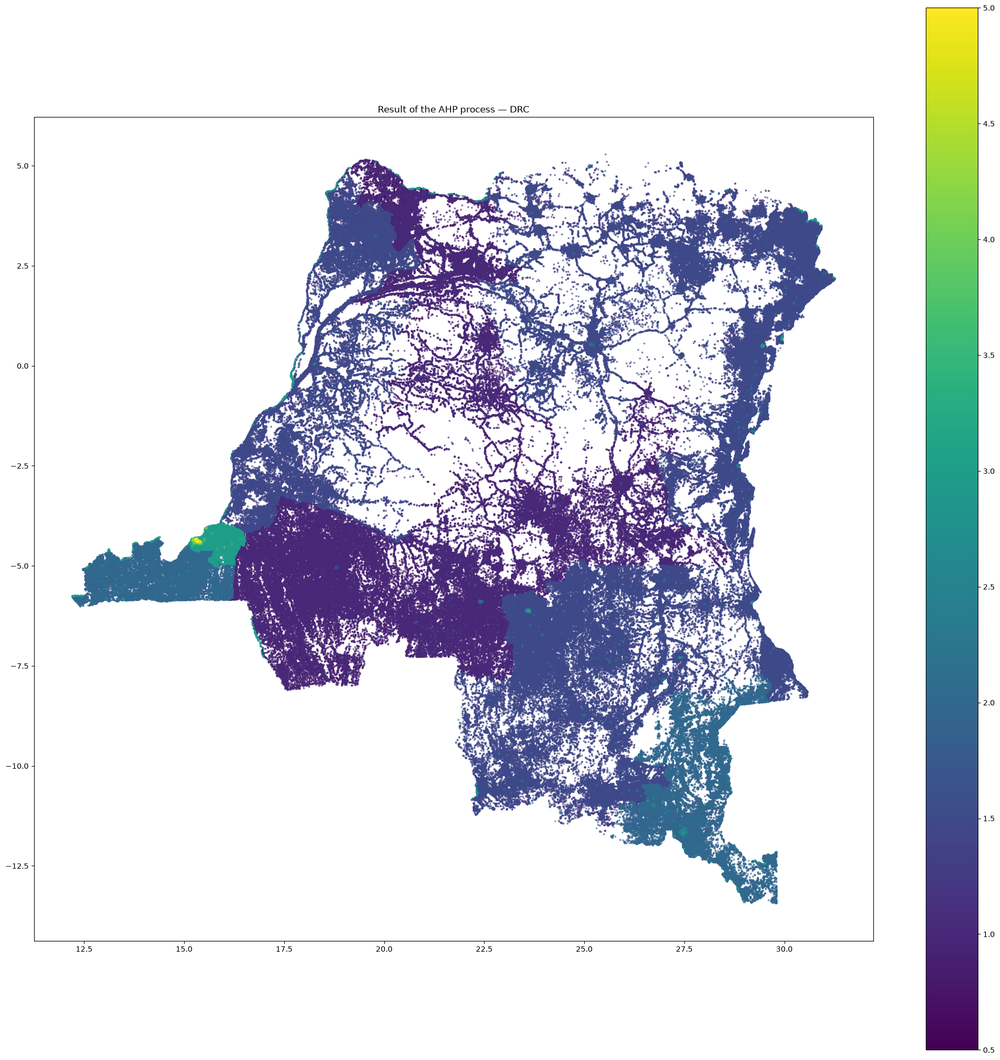
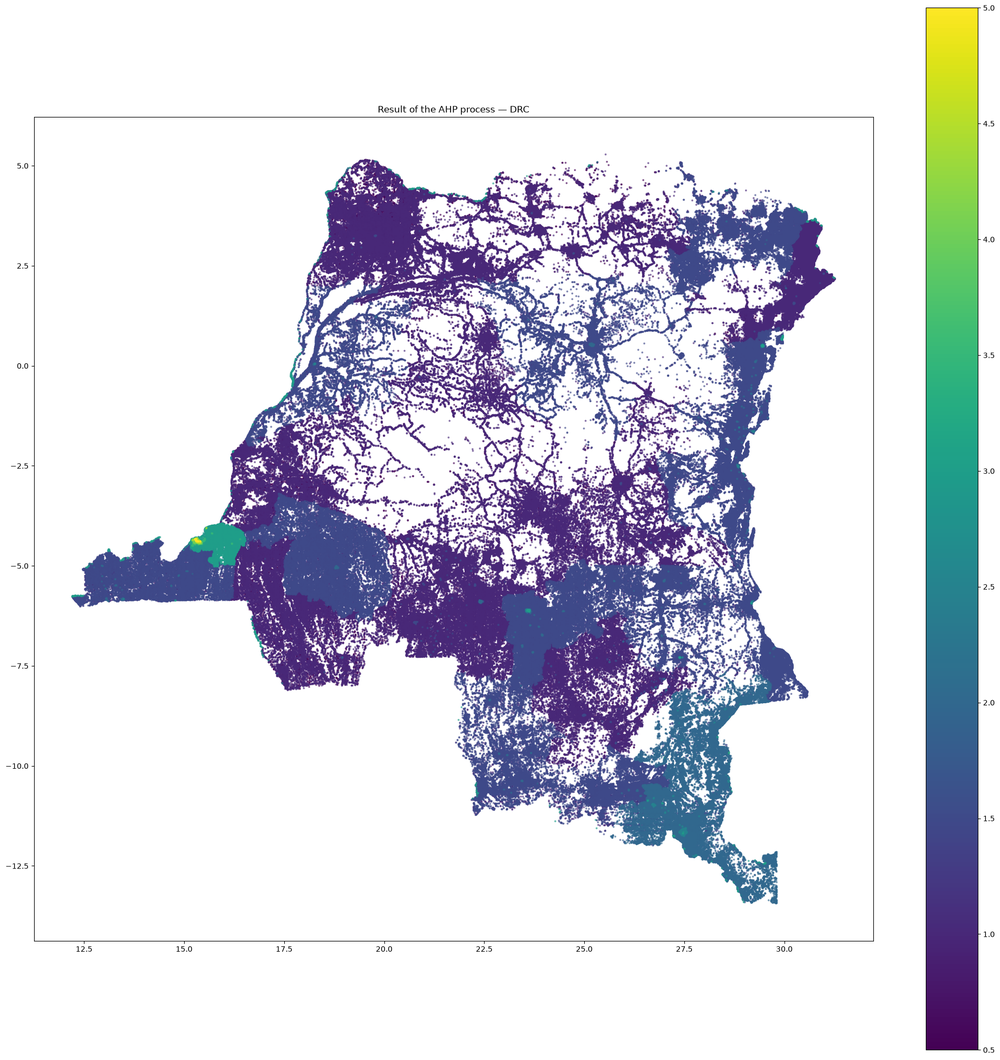
README: update DRC results and maps for the DHS 2023-24 poverty data
HDX's cod-mpi dataset now carries the OPHI MPI from DHS 2023-24 (was MICS
2017-18). Regenerated both result maps and rewrote the per-province
summary: national mean ~53 kWh/capita/year, ~91% of pixels below Tier 2.

diff --git a/README.md b/README.md
@@ -15,12 +15,14 @@ The model produces a ~1 km grid of residential demand targets for the whole coun
 | ![DRC AHP index](images/DRC_AHP_index.png) | ![DRC CREDIT result](images/DRC_CREDIT_result.png) |
 
 - **Highest targets** are around **Kinshasa**: ~300 kWh/capita/year on average, up to ~590 kWh/capita/year (MTF Tier 5) in the city centre.
-- **Mid-range targets** (~150–300 kWh/capita/year) appear in Kongo Central and the south-eastern mining belt (Haut-Katanga). Both provinces average ~140–146 kWh/capita/year.
-- **The east** (Ituri, Nord-Kivu, Sud-Kivu, Haut-Uele and Bas-Uele) sits at ~65–80 kWh/capita/year.
-- **Lowest targets** (below ~10 kWh/capita/year) are in the poorest provinces: Kwilu, Kwango, Kasaï, Kasaï-Central, Sankuru, Maniema, Mongala, Tshuapa and Nord-Ubangi.
-- About **87 %** of populated pixels are below 153 kWh/capita/year (MTF Tier 1–2). The national mean is ~66 kWh/capita/year.
+- **Haut-Katanga** (the south-eastern mining belt) is the only other province with mid-range targets: ~147 kWh/capita/year on average, up to ~370 kWh/capita/year.
+- **Most other provinces** average ~65–80 kWh/capita/year: Kongo Central, Kwilu, Équateur, Tshopo, Lomami, Lualaba, Tanganyika, Kasaï-Oriental, Haut-Uele, Nord-Kivu and Sud-Kivu.
+- **Lowest targets** (below ~10 kWh/capita/year on average) are in the 13 provinces where more than 80 % of people are MPI-poor: Kwango, Maï-Ndombe, Kasaï, Kasaï-Central, Sankuru, Maniema, Haut-Lomami, Ituri, Bas-Uele, Mongala, Tshuapa, Sud-Ubangi and Nord-Ubangi.
+- About **91 %** of populated pixels are below 153 kWh/capita/year (MTF Tier 1–2). The national mean is ~53 kWh/capita/year.
 
-> These results use the PCode join between the poverty table and the HDX boundaries. Earlier versions had no poverty data for Haut-Uele, Bas-Uele, Nord-Kivu, Sud-Kivu and Kasaï-Central (English and French province names did not match). Those provinces were treated as the least poor, which put their targets at ~140–150 kWh/capita/year.
+> These results use the OPHI MPI from the **DHS 2023–24** survey (HDX dataset `cod-mpi`). Earlier versions of this README used the MICS 2017–18 survey. With the newer survey, Kwilu falls below the 80 % poverty threshold (its targets rise from below 10 to ~70 kWh/capita/year), while Ituri, Haut-Lomami, Maï-Ndombe, Bas-Uele and Sud-Ubangi rise above it (their targets drop to below 10). Kongo Central falls from ~140 to ~70 kWh/capita/year.
+>
+> Poverty is joined to the HDX boundaries by PCode, so every province gets its own value. Versions before the PCode join had no poverty data for Haut-Uele, Bas-Uele, Nord-Kivu, Sud-Kivu and Kasaï-Central, because the English and French province names did not match.
 
 Output files (written to `sample_output/<ISO3>/`, e.g. `sample_output/COD/`, not tracked in git; each country gets its own folder, so running another country does not overwrite these):
 
@@ -166,7 +168,7 @@ index = 0.5 × poverty_class + 0.5 × GDP_class
 | Parameter | Value |
 |---|---|
 | Country / ISO3 | Democratic Republic of the Congo / COD |
-| Poverty data | OPHI MPI headcount ratio, ADM1 (26 provinces; MPI is only published at ADM1) |
+| Poverty data | OPHI MPI headcount ratio from DHS 2023–24, ADM1 (26 provinces; MPI is only published at ADM1) |
 | GDP data | Kummu et al. v4, GDP PPP 2024, 30 arc-sec |
 | Projection | WGS 84 / UTM zone 34S (EPSG:32734) |
 | Weights | poverty 0.5, GDP 0.5 |
